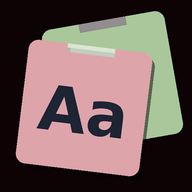
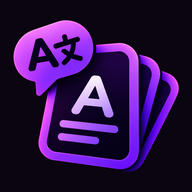
Add files via upload

diff --git a/sw.js b/sw.js
@@ -4,7 +4,7 @@
    Wer eine Änderung sofort erzwingen will, erhöht die VERSION.
    Wichtig: GitHub Pages lässt Dateien 10 Minuten im Browser-Zwischenspeicher liegen.
    Deshalb wird hier immer mit cache:"reload" bzw. "no-cache" geladen, sonst landen alte Dateien im neuen Cache. */
-const VERSION = "v4";
+const VERSION = "v5";
 const CACHE = "fach-vokabeln-" + VERSION;
 const CORE = [
   "./", "index.html", "style.css", "app.js", "manifest.json",

diff --git a/CLAUDE.md b/CLAUDE.md
@@ -130,3 +130,4 @@ Weitere Schlüssel: `devvokabeln.module` (zuletzt offenes Modul), `lernapp.theme
 | v2 | IT & Scrum mit violettem Farbschema |
 | v3 | Startseite: Lernstand als ein Balken statt Erklärtext; „Themen zum Üben“ und „Was schon sitzt“ zu einer Themenliste mit Häkchen und Fortschritt zusammengelegt; Kopf zeigt „noch X bis <nächster Rang>“; Zahlen mit Tausenderpunkt (`num`) |
 | v4 | `sw.js`: lädt beim Installieren und Aktualisieren am Browser-Zwischenspeicher vorbei (`cache:"reload"`/`"no-cache"`). Vorher landeten wegen der 10-Minuten-Zwischenspeicherung von GitHub Pages alte Dateien im neuen Cache |
+| v5 | Neues App-Icon (Karteikarten mit Übersetzungs-Sprechblase, violett); Hintergrund auf `#0a0510` angepasst, maskierbare Variante mit Sicherheitsrand |
